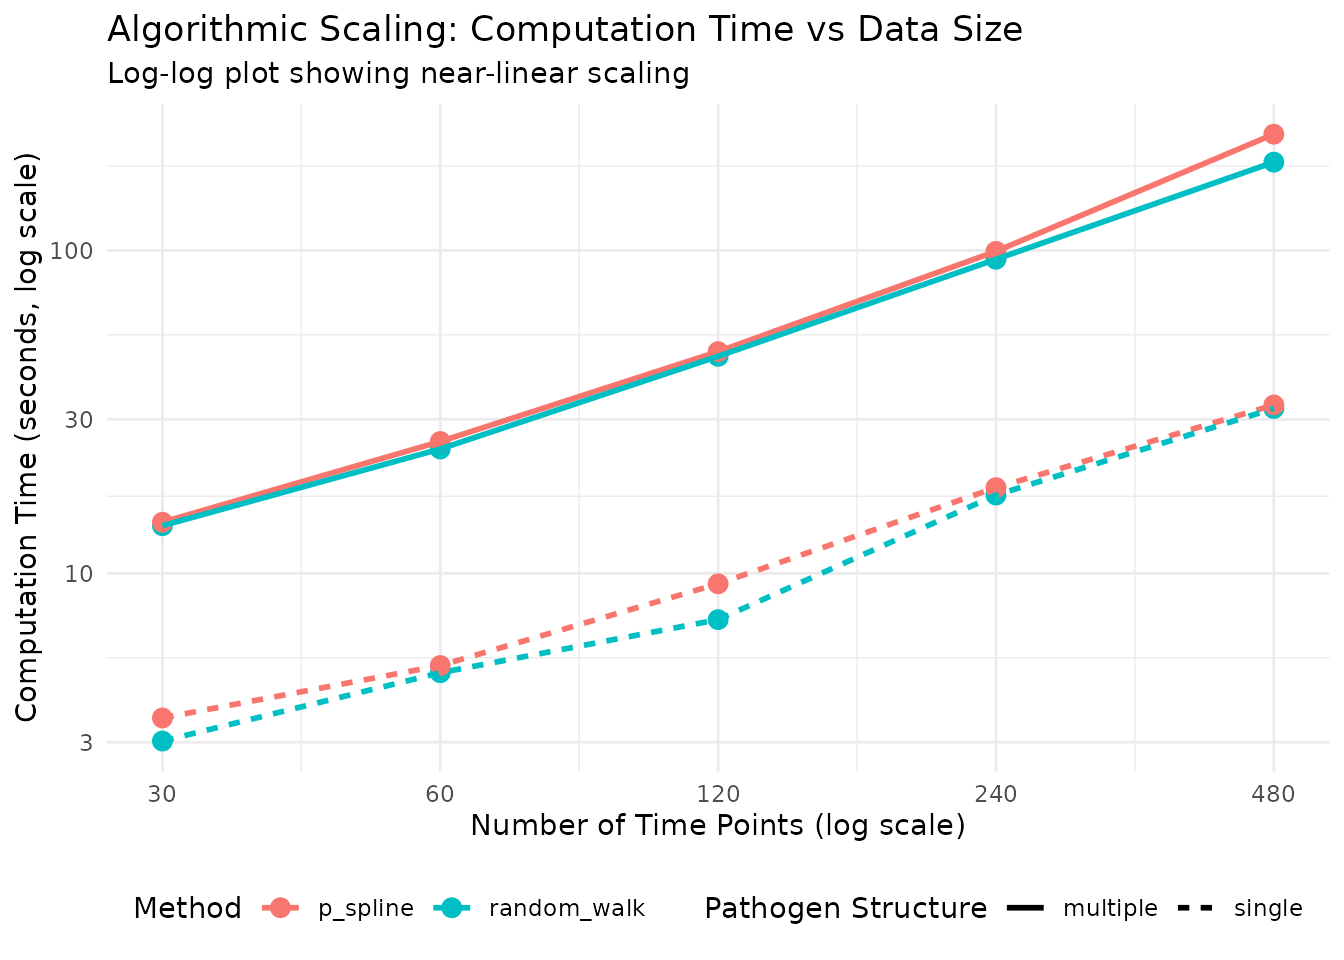
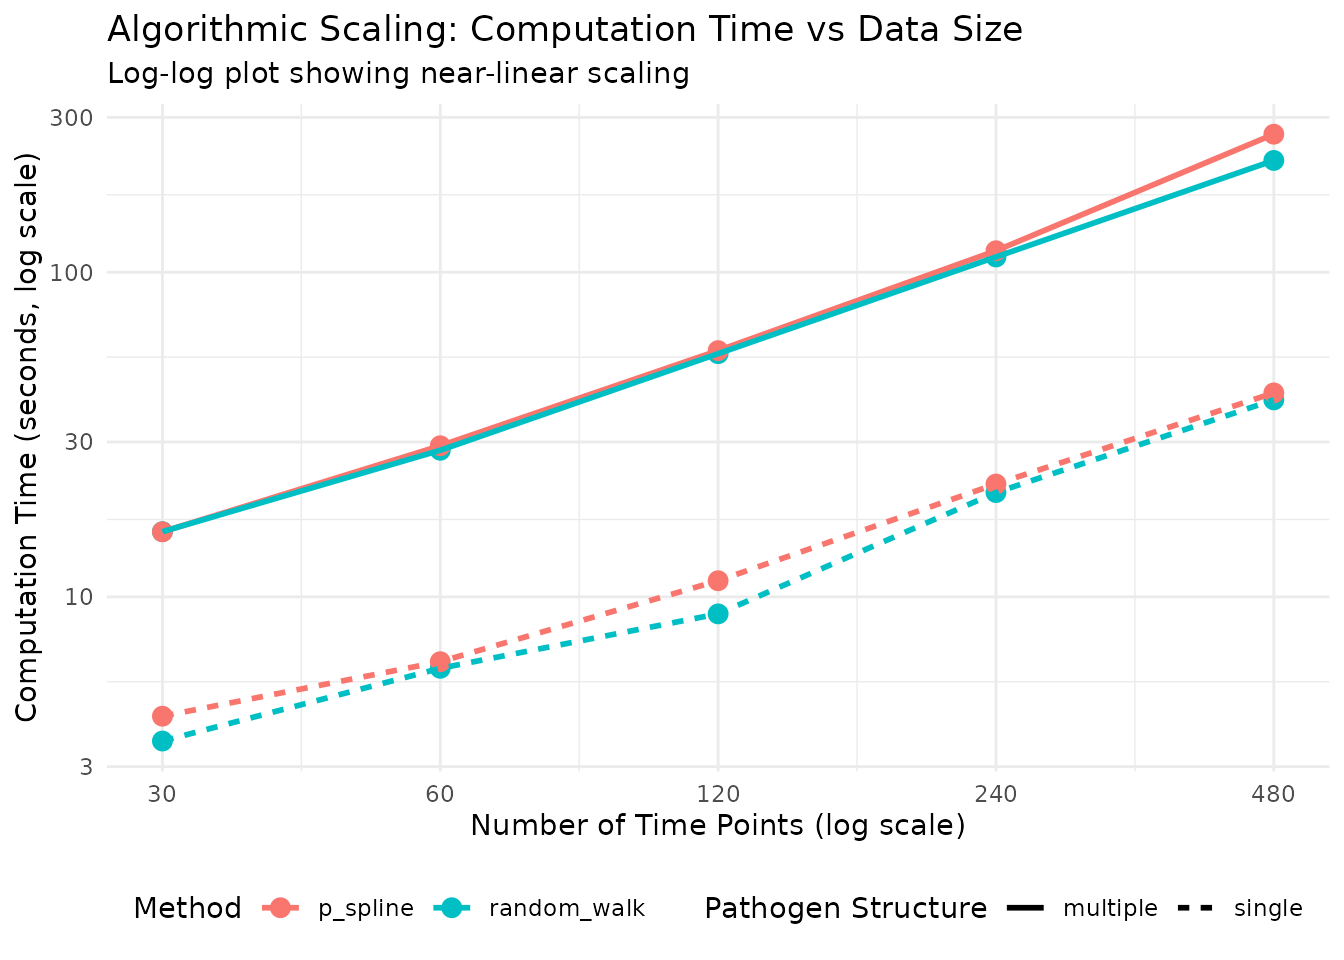
Deploying to gh-pages from @ acefa-hubs/EpiStrainDynamics@e9191eda9a7f401fbf22a3cc9b69437df19fa8c9 🚀

diff --git a/articles/algorithmic-scaling.html b/articles/algorithmic-scaling.html
@@ -387,26 +387,26 @@ O(n^exponent)</caption>
 <tr class="odd">
 <td align="left">p_spline</td>
 <td align="left">multiple</td>
-<td align="right">0.994</td>
-<td align="right">0.995</td>
+<td align="right">1.013</td>
+<td align="right">0.997</td>
 </tr>
 <tr class="even">
 <td align="left">p_spline</td>
 <td align="left">single</td>
-<td align="right">0.827</td>
-<td align="right">0.991</td>
+<td align="right">0.843</td>
+<td align="right">0.990</td>
 </tr>
 <tr class="odd">
 <td align="left">random_walk</td>
 <td align="left">multiple</td>
-<td align="right">0.943</td>
-<td align="right">0.998</td>
+<td align="right">0.958</td>
+<td align="right">0.999</td>
 </tr>
 <tr class="even">
 <td align="left">random_walk</td>
 <td align="left">single</td>
-<td align="right">0.867</td>
-<td align="right">0.980</td>
+<td align="right">0.878</td>
+<td align="right">0.983</td>
 </tr>
 </tbody>
 </table>

diff --git a/news/index.html b/news/index.html
@@ -57,6 +57,7 @@
 <ul><li>Fixed the negative-binomial likelihood in the random-walk single-pathogen model when <code>dow_effect = TRUE</code> (<a href="https://github.com/acefa-hubs/EpiStrainDynamics/issues/42" class="external-link">#42</a>).</li>
 <li>Corrected the <code><a href="../reference/proportion.html">proportion()</a></code> / <code><a href="../reference/plot.html">plot()</a></code> example in the vignette and fixed the underlying figure path so plots render correctly (<a href="https://github.com/acefa-hubs/EpiStrainDynamics/issues/45" class="external-link">#45</a>).</li>
 <li>Fixed the <code><a href="../reference/Rt.html">Rt()</a></code> equation failing to render on the pkgdown site by setting MathJax as the math renderer (<a href="https://github.com/acefa-hubs/EpiStrainDynamics/issues/44" class="external-link">#44</a>).</li>
+<li>Fixed <code><a href="../reference/construct_model.html">construct_model()</a></code> and <code>compute_multi_pathogen()</code> erroring on R versions before 4.4.0 with “could not find function ‘%||%’”, by explicitly importing <code>%||%</code> from <code>rlang</code> instead of relying on base R’s version, which only exists from R 4.4.0 (related to <a href="https://github.com/acefa-hubs/EpiStrainDynamics/issues/43" class="external-link">#43</a>).</li>
 </ul></div>
 <div class="section level3">
 <h3 id="minor-improvements-development-version">Minor improvements<a class="anchor" aria-label="anchor" href="#minor-improvements-development-version"></a></h3>
@@ -68,7 +69,7 @@
 <li>Added a <code><a href="https://rdrr.io/r/base/print.html" class="external-link">print()</a></code> method for <code>EpiStrainDynamics.model</code> objects (<a href="https://github.com/acefa-hubs/EpiStrainDynamics/issues/47" class="external-link">#47</a>).</li>
 <li>Standardised error handling on <code><a href="https://cli.r-lib.org/reference/cli_abort.html" class="external-link">cli::cli_abort()</a></code> (<a href="https://github.com/acefa-hubs/EpiStrainDynamics/issues/49" class="external-link">#49</a>).</li>
 <li>
-<code><a href="../reference/plot.html">plot()</a></code> is no longer redefined as a generic (<a href="https://github.com/acefa-hubs/EpiStrainDynamics/issues/48" class="external-link">#48</a>).</li>
+<code><a href="../reference/plot.html">plot()</a></code> is no longer redefined as a generic (<a href="https://github.com/acefa-hubs/EpiStrainDynamics/issues/48" class="external-link">#48</a>), and its S3 methods’ first argument was renamed from <code>df</code> to <code>x</code> to match the base generic’s signature, resolving an R CMD check S3 generic/method consistency warning.</li>
 <li>Increased the minimum R version to 4.1.0, matching actual base pipe usage, and added it to the R-CMD-check.yaml test matrix (<a href="https://github.com/acefa-hubs/EpiStrainDynamics/issues/43" class="external-link">#43</a>).</li>
 <li>Fixed all lintr-identified issues (<a href="https://github.com/acefa-hubs/EpiStrainDynamics/issues/50" class="external-link">#50</a>): styling (line length, indentation, spacing) via <code>styler</code>, dropped explicit <code><a href="https://rdrr.io/r/base/function.html" class="external-link">return()</a></code> on final statements, converted <code><a href="https://rdrr.io/r/base/lapply.html" class="external-link">sapply()</a></code> to <code><a href="https://rdrr.io/r/base/lapply.html" class="external-link">vapply()</a></code> for type-safe extraction, and removed genuine dead code flagged by unused-variable checks.</li>
 </ul></div>

diff --git a/news/index.md b/news/index.md
@@ -19,6 +19,13 @@
   equation failing to render on the pkgdown site by setting MathJax as
   the math renderer
   ([\#44](https://github.com/acefa-hubs/EpiStrainDynamics/issues/44)).
+- Fixed
+  [`construct_model()`](https://acefa-hubs.github.io/EpiStrainDynamics/reference/construct_model.md)
+  and `compute_multi_pathogen()` erroring on R versions before 4.4.0
+  with “could not find function ‘%\|\|%’”, by explicitly importing
+  `%||%` from `rlang` instead of relying on base R’s version, which only
+  exists from R 4.4.0 (related to
+  [\#43](https://github.com/acefa-hubs/EpiStrainDynamics/issues/43)).
 
 ### Minor improvements
 
@@ -41,7 +48,10 @@
   ([\#49](https://github.com/acefa-hubs/EpiStrainDynamics/issues/49)).
 - [`plot()`](https://acefa-hubs.github.io/EpiStrainDynamics/reference/plot.md)
   is no longer redefined as a generic
-  ([\#48](https://github.com/acefa-hubs/EpiStrainDynamics/issues/48)).
+  ([\#48](https://github.com/acefa-hubs/EpiStrainDynamics/issues/48)),
+  and its S3 methods’ first argument was renamed from `df` to `x` to
+  match the base generic’s signature, resolving an R CMD check S3
+  generic/method consistency warning.
 - Increased the minimum R version to 4.1.0, matching actual base pipe
   usage, and added it to the R-CMD-check.yaml test matrix
   ([\#43](https://github.com/acefa-hubs/EpiStrainDynamics/issues/43)).

diff --git a/articles/algorithmic-scaling.md b/articles/algorithmic-scaling.md
@@ -303,10 +303,10 @@ knitr::kable(scaling_results,
 
 | method      | pathogen_structure | scaling_exponent | r_squared |
 |:------------|:-------------------|-----------------:|----------:|
-| p_spline    | multiple           |            0.994 |     0.995 |
-| p_spline    | single             |            0.827 |     0.991 |
-| random_walk | multiple           |            0.943 |     0.998 |
-| random_walk | single             |            0.867 |     0.980 |
+| p_spline    | multiple           |            1.013 |     0.997 |
+| p_spline    | single             |            0.843 |     0.990 |
+| random_walk | multiple           |            0.958 |     0.999 |
+| random_walk | single             |            0.878 |     0.983 |
 
 Scaling exponents: time complexity approximately O(n^exponent) {.table}
 